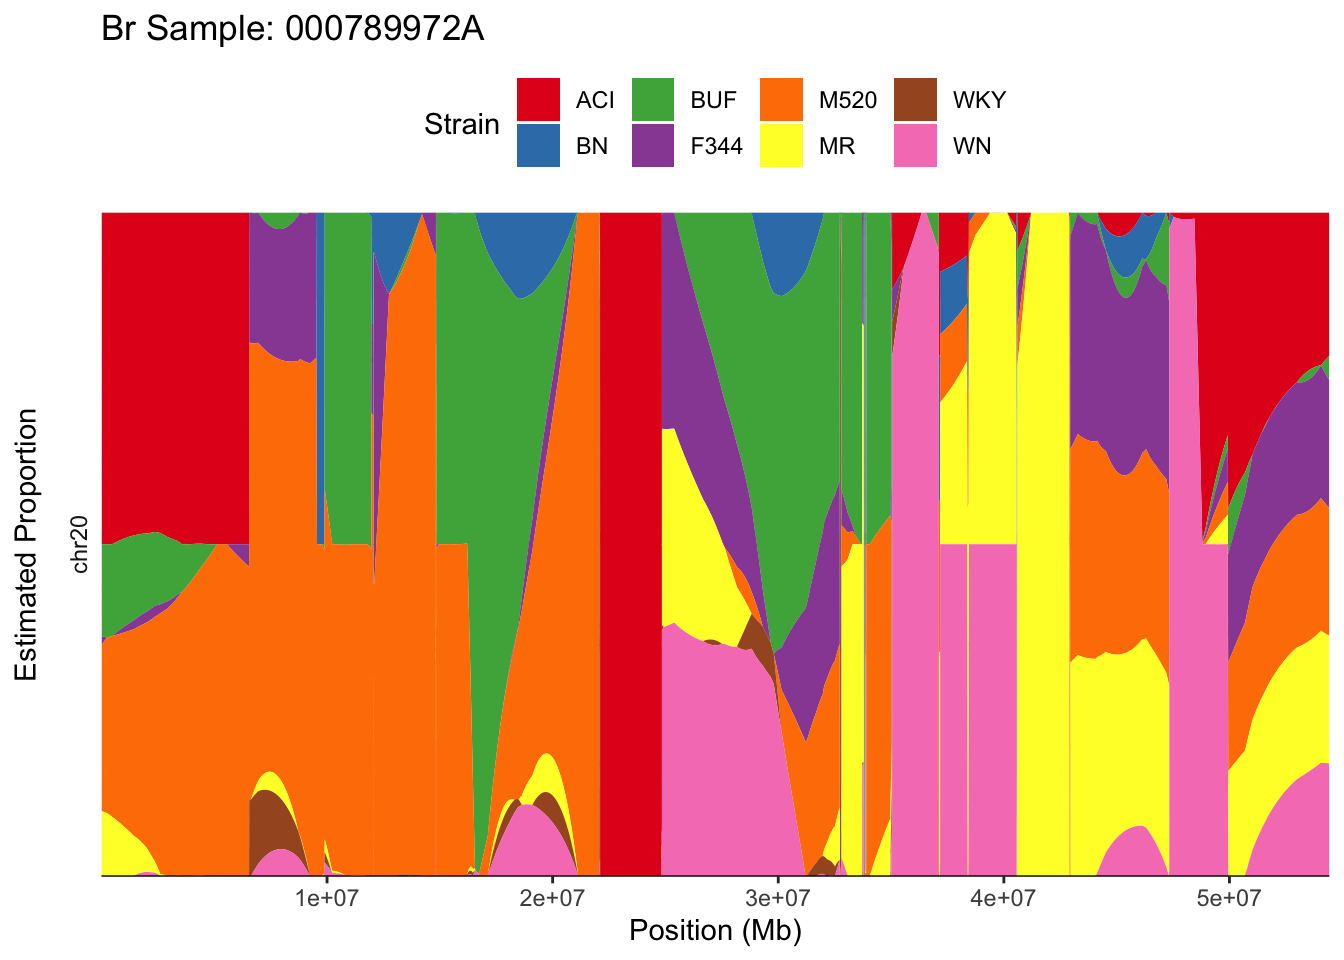
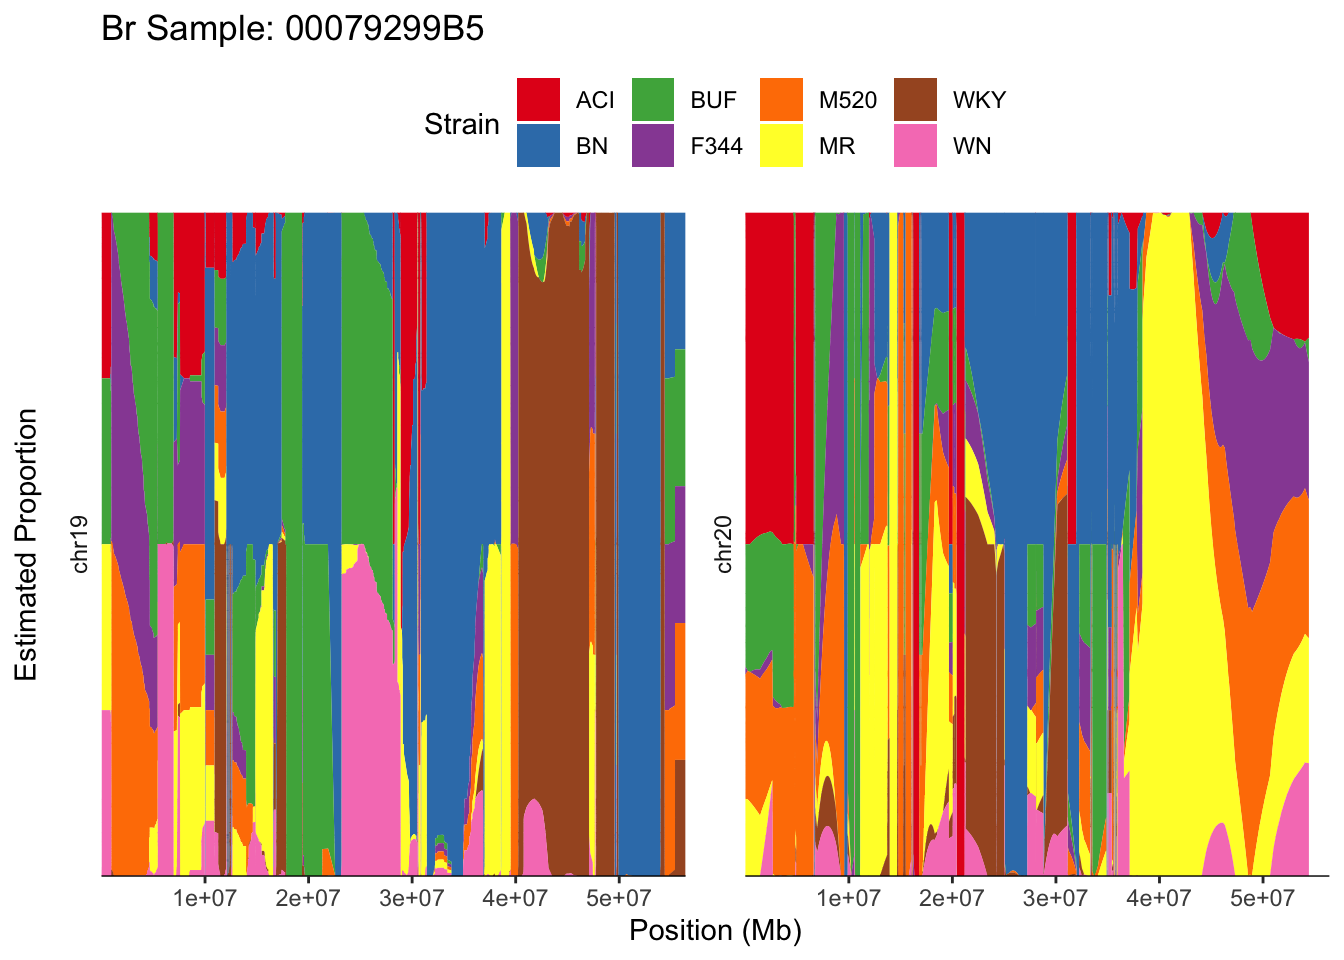
chr19 plot

diff --git a/docs/posts/2023-12-13-plotting-Br-haplotype-distributions/index.html b/docs/posts/2023-12-13-plotting-Br-haplotype-distributions/index.html
@@ -182,45 +182,49 @@ pre > code.sourceCode > span > a:first-child::before { text-decoration: underlin
 <span id="cb1-2"><a href="#cb1-2" aria-hidden="true" tabindex="-1"></a><span class="fu">library</span>(tidyr)</span>
 <span id="cb1-3"><a href="#cb1-3" aria-hidden="true" tabindex="-1"></a><span class="fu">library</span>(stringr)</span></code><button title="Copy to Clipboard" class="code-copy-button"><i class="bi"></i></button></pre></div>
 </div>
-<div class="cell" data-hash="index_cache/html/calc_genoprob to df function_0fefa23c377fe4368a58ca5a8bad9b56">
-<div class="sourceCode cell-code" id="cb2"><pre class="sourceCode r code-with-copy"><code class="sourceCode r"><span id="cb2-1"><a href="#cb2-1" aria-hidden="true" tabindex="-1"></a>prob <span class="ot">&lt;-</span> <span class="fu">readRDS</span>(<span class="st">"/Users/sabrinami/chr20-qtl2-outputs/batch0_prob.rds"</span>)</span>
-<span id="cb2-2"><a href="#cb2-2" aria-hidden="true" tabindex="-1"></a>reshape_genoprob <span class="ot">&lt;-</span> <span class="cf">function</span>(sample) {</span>
-<span id="cb2-3"><a href="#cb2-3" aria-hidden="true" tabindex="-1"></a>  sample_prob <span class="ot">&lt;-</span> <span class="fu">as.data.frame</span>(<span class="fu">t</span>(prob[[<span class="dv">1</span>]][sample, , ]))</span>
-<span id="cb2-4"><a href="#cb2-4" aria-hidden="true" tabindex="-1"></a>  snps <span class="ot">&lt;-</span> <span class="fu">str_split</span>(<span class="fu">rownames</span>(sample_prob), <span class="st">":"</span>, <span class="at">simplify =</span> <span class="cn">TRUE</span>)</span>
-<span id="cb2-5"><a href="#cb2-5" aria-hidden="true" tabindex="-1"></a>  <span class="fu">colnames</span>(snps) <span class="ot">&lt;-</span> <span class="fu">c</span>(<span class="st">"chrom"</span>, <span class="st">"pos"</span>)</span>
-<span id="cb2-6"><a href="#cb2-6" aria-hidden="true" tabindex="-1"></a>  sample_prob <span class="ot">&lt;-</span> <span class="fu">cbind</span>(sample_prob, snps)</span>
-<span id="cb2-7"><a href="#cb2-7" aria-hidden="true" tabindex="-1"></a>  plot_df <span class="ot">&lt;-</span> <span class="fu">pivot_longer</span>(sample_prob, <span class="at">cols =</span> <span class="sc">-</span><span class="fu">c</span>(chrom, pos), <span class="at">names_to =</span> <span class="st">"Strain"</span>, <span class="at">values_to =</span> <span class="st">"prob"</span>)</span>
-<span id="cb2-8"><a href="#cb2-8" aria-hidden="true" tabindex="-1"></a>  plot_df<span class="sc">$</span>pos <span class="ot">&lt;-</span> <span class="fu">as.integer</span>(plot_df<span class="sc">$</span>pos)</span>
-<span id="cb2-9"><a href="#cb2-9" aria-hidden="true" tabindex="-1"></a>  <span class="fu">return</span>(plot_df)</span>
-<span id="cb2-10"><a href="#cb2-10" aria-hidden="true" tabindex="-1"></a>}</span></code><button title="Copy to Clipboard" class="code-copy-button"><i class="bi"></i></button></pre></div>
+<div class="cell" data-hash="index_cache/html/calc_genoprob to df function_7163612ce7af857ca69e441c8c99b402">
+<div class="sourceCode cell-code" id="cb2"><pre class="sourceCode r code-with-copy"><code class="sourceCode r"><span id="cb2-1"><a href="#cb2-1" aria-hidden="true" tabindex="-1"></a>reshape_genoprob <span class="ot">&lt;-</span> <span class="cf">function</span>(sample, prob) {</span>
+<span id="cb2-2"><a href="#cb2-2" aria-hidden="true" tabindex="-1"></a>  sample_prob <span class="ot">&lt;-</span> <span class="fu">as.data.frame</span>(<span class="fu">t</span>(prob[[<span class="dv">1</span>]][sample, , ]))</span>
+<span id="cb2-3"><a href="#cb2-3" aria-hidden="true" tabindex="-1"></a>  snps <span class="ot">&lt;-</span> <span class="fu">str_split</span>(<span class="fu">rownames</span>(sample_prob), <span class="st">":"</span>, <span class="at">simplify =</span> <span class="cn">TRUE</span>)</span>
+<span id="cb2-4"><a href="#cb2-4" aria-hidden="true" tabindex="-1"></a>  <span class="fu">colnames</span>(snps) <span class="ot">&lt;-</span> <span class="fu">c</span>(<span class="st">"chrom"</span>, <span class="st">"pos"</span>)</span>
+<span id="cb2-5"><a href="#cb2-5" aria-hidden="true" tabindex="-1"></a>  sample_prob <span class="ot">&lt;-</span> <span class="fu">cbind</span>(sample_prob, snps)</span>
+<span id="cb2-6"><a href="#cb2-6" aria-hidden="true" tabindex="-1"></a>  plot_df <span class="ot">&lt;-</span> <span class="fu">pivot_longer</span>(sample_prob, <span class="at">cols =</span> <span class="sc">-</span><span class="fu">c</span>(chrom, pos), <span class="at">names_to =</span> <span class="st">"Strain"</span>, <span class="at">values_to =</span> <span class="st">"prob"</span>)</span>
+<span id="cb2-7"><a href="#cb2-7" aria-hidden="true" tabindex="-1"></a>  plot_df<span class="sc">$</span>pos <span class="ot">&lt;-</span> <span class="fu">as.integer</span>(plot_df<span class="sc">$</span>pos)</span>
+<span id="cb2-8"><a href="#cb2-8" aria-hidden="true" tabindex="-1"></a>  <span class="fu">return</span>(plot_df)</span>
+<span id="cb2-9"><a href="#cb2-9" aria-hidden="true" tabindex="-1"></a>}</span></code><button title="Copy to Clipboard" class="code-copy-button"><i class="bi"></i></button></pre></div>
 </div>
 <section id="samples-plots" class="level3">
 <h3 class="anchored" data-anchor-id="samples-plots">Samples Plots</h3>
-<div class="cell" data-hash="index_cache/html/unnamed-chunk-1_643c993f0e3e2668c4e753ee04c97584">
-<div class="sourceCode cell-code" id="cb3"><pre class="sourceCode r code-with-copy"><code class="sourceCode r"><span id="cb3-1"><a href="#cb3-1" aria-hidden="true" tabindex="-1"></a><span class="cf">for</span> (sample <span class="cf">in</span> <span class="fu">sample</span>(<span class="fu">rownames</span>(prob[[<span class="dv">1</span>]]), <span class="at">size =</span> <span class="dv">2</span>, <span class="at">replace =</span> <span class="cn">FALSE</span>)) {</span>
-<span id="cb3-2"><a href="#cb3-2" aria-hidden="true" tabindex="-1"></a>  df <span class="ot">&lt;-</span> <span class="fu">reshape_genoprob</span>(sample)</span>
-<span id="cb3-3"><a href="#cb3-3" aria-hidden="true" tabindex="-1"></a>  plot <span class="ot">&lt;-</span> df <span class="sc">%&gt;%</span> <span class="fu">ggplot</span>(<span class="fu">aes</span>(<span class="at">x =</span> pos, <span class="at">y =</span> prob, <span class="at">fill =</span> Strain)) <span class="sc">+</span></span>
-<span id="cb3-4"><a href="#cb3-4" aria-hidden="true" tabindex="-1"></a>    <span class="fu">facet_wrap</span>(<span class="sc">~</span> chrom, <span class="at">ncol =</span> <span class="dv">2</span>, <span class="at">dir =</span> <span class="st">"v"</span>, <span class="at">strip.position =</span> <span class="st">"left"</span>) <span class="sc">+</span></span>
-<span id="cb3-5"><a href="#cb3-5" aria-hidden="true" tabindex="-1"></a>    <span class="fu">geom_area</span>() <span class="sc">+</span></span>
-<span id="cb3-6"><a href="#cb3-6" aria-hidden="true" tabindex="-1"></a>    <span class="fu">scale_fill_brewer</span>(<span class="at">type =</span> <span class="st">"qual"</span>, <span class="at">palette =</span> <span class="dv">6</span>) <span class="sc">+</span></span>
-<span id="cb3-7"><a href="#cb3-7" aria-hidden="true" tabindex="-1"></a>    <span class="fu">scale_x_continuous</span>(<span class="at">expand =</span> <span class="fu">c</span>(<span class="dv">0</span>, <span class="dv">0</span>)) <span class="sc">+</span></span>
-<span id="cb3-8"><a href="#cb3-8" aria-hidden="true" tabindex="-1"></a>    <span class="fu">scale_y_continuous</span>(<span class="at">expand =</span> <span class="fu">c</span>(<span class="dv">0</span>, <span class="dv">0</span>)) <span class="sc">+</span></span>
-<span id="cb3-9"><a href="#cb3-9" aria-hidden="true" tabindex="-1"></a>    <span class="fu">theme_bw</span>() <span class="sc">+</span></span>
-<span id="cb3-10"><a href="#cb3-10" aria-hidden="true" tabindex="-1"></a>    <span class="fu">xlab</span>(<span class="st">"Position (Mb)"</span>) <span class="sc">+</span></span>
-<span id="cb3-11"><a href="#cb3-11" aria-hidden="true" tabindex="-1"></a>    <span class="fu">ylab</span>(<span class="st">"Estimated Proportion"</span>) <span class="sc">+</span></span>
-<span id="cb3-12"><a href="#cb3-12" aria-hidden="true" tabindex="-1"></a>    <span class="fu">ggtitle</span>(<span class="fu">paste0</span>(<span class="st">"Br Sample: "</span>, sample)) <span class="sc">+</span>  </span>
-<span id="cb3-13"><a href="#cb3-13" aria-hidden="true" tabindex="-1"></a>    <span class="fu">theme</span>(</span>
-<span id="cb3-14"><a href="#cb3-14" aria-hidden="true" tabindex="-1"></a>        <span class="at">axis.text.y =</span> <span class="fu">element_blank</span>(),</span>
-<span id="cb3-15"><a href="#cb3-15" aria-hidden="true" tabindex="-1"></a>        <span class="at">panel.grid =</span> <span class="fu">element_blank</span>(),</span>
-<span id="cb3-16"><a href="#cb3-16" aria-hidden="true" tabindex="-1"></a>        <span class="at">axis.ticks.y =</span> <span class="fu">element_blank</span>(),</span>
-<span id="cb3-17"><a href="#cb3-17" aria-hidden="true" tabindex="-1"></a>        <span class="at">axis.line.x =</span> <span class="fu">element_line</span>(<span class="at">size =</span> <span class="fl">0.25</span>),</span>
-<span id="cb3-18"><a href="#cb3-18" aria-hidden="true" tabindex="-1"></a>        <span class="at">panel.border =</span> <span class="fu">element_blank</span>(),</span>
-<span id="cb3-19"><a href="#cb3-19" aria-hidden="true" tabindex="-1"></a>        <span class="at">strip.background =</span> <span class="fu">element_blank</span>(),</span>
-<span id="cb3-20"><a href="#cb3-20" aria-hidden="true" tabindex="-1"></a>        <span class="at">legend.position =</span> <span class="st">"top"</span>,</span>
-<span id="cb3-21"><a href="#cb3-21" aria-hidden="true" tabindex="-1"></a>    )</span>
-<span id="cb3-22"><a href="#cb3-22" aria-hidden="true" tabindex="-1"></a>    <span class="fu">print</span>(plot)</span>
-<span id="cb3-23"><a href="#cb3-23" aria-hidden="true" tabindex="-1"></a>    <span class="fu">ggsave</span>(<span class="fu">paste0</span>(sample,<span class="st">".png"</span>), <span class="at">plot =</span> plot, <span class="at">width =</span> <span class="dv">8</span>, <span class="at">height =</span> <span class="dv">6</span>, <span class="at">units =</span> <span class="st">"in"</span>, <span class="at">dpi =</span> <span class="dv">300</span>)</span>
-<span id="cb3-24"><a href="#cb3-24" aria-hidden="true" tabindex="-1"></a>}</span></code><button title="Copy to Clipboard" class="code-copy-button"><i class="bi"></i></button></pre></div>
+<div class="cell" data-hash="index_cache/html/unnamed-chunk-1_d6ca36b0eb38fc076848616681ebb2cf">
+<div class="sourceCode cell-code" id="cb3"><pre class="sourceCode r code-with-copy"><code class="sourceCode r"><span id="cb3-1"><a href="#cb3-1" aria-hidden="true" tabindex="-1"></a><span class="fu">set.seed</span>(<span class="dv">6</span>)</span>
+<span id="cb3-2"><a href="#cb3-2" aria-hidden="true" tabindex="-1"></a>chr20_prob <span class="ot">&lt;-</span> <span class="fu">readRDS</span>(<span class="st">"/Users/sabrinami/chr20-qtl2-outputs/batch0_prob.rds"</span>)</span>
+<span id="cb3-3"><a href="#cb3-3" aria-hidden="true" tabindex="-1"></a>chr19_prob <span class="ot">&lt;-</span> <span class="fu">readRDS</span>(<span class="st">"/Users/sabrinami/chr19-qtl2-outputs/batch0_prob.rds"</span>)</span>
+<span id="cb3-4"><a href="#cb3-4" aria-hidden="true" tabindex="-1"></a><span class="cf">for</span> (sample <span class="cf">in</span> <span class="fu">sample</span>(<span class="fu">rownames</span>(chr19_prob[[<span class="dv">1</span>]]), <span class="at">size =</span> <span class="dv">2</span>, <span class="at">replace =</span> <span class="cn">FALSE</span>)) {</span>
+<span id="cb3-5"><a href="#cb3-5" aria-hidden="true" tabindex="-1"></a>  chr20_df <span class="ot">&lt;-</span> <span class="fu">reshape_genoprob</span>(sample, chr20_prob)</span>
+<span id="cb3-6"><a href="#cb3-6" aria-hidden="true" tabindex="-1"></a>  chr19_df <span class="ot">&lt;-</span> <span class="fu">reshape_genoprob</span>(sample, chr19_prob)</span>
+<span id="cb3-7"><a href="#cb3-7" aria-hidden="true" tabindex="-1"></a>  df <span class="ot">&lt;-</span> <span class="fu">rbind</span>(chr19_df, chr20_df)</span>
+<span id="cb3-8"><a href="#cb3-8" aria-hidden="true" tabindex="-1"></a>  plot <span class="ot">&lt;-</span> df <span class="sc">%&gt;%</span> <span class="fu">ggplot</span>(<span class="fu">aes</span>(<span class="at">x =</span> pos, <span class="at">y =</span> prob, <span class="at">fill =</span> Strain)) <span class="sc">+</span></span>
+<span id="cb3-9"><a href="#cb3-9" aria-hidden="true" tabindex="-1"></a>    <span class="fu">facet_wrap</span>(<span class="sc">~</span> chrom, <span class="at">ncol =</span> <span class="dv">2</span>, <span class="at">dir =</span> <span class="st">"v"</span>, <span class="at">strip.position =</span> <span class="st">"left"</span>) <span class="sc">+</span></span>
+<span id="cb3-10"><a href="#cb3-10" aria-hidden="true" tabindex="-1"></a>    <span class="fu">geom_area</span>() <span class="sc">+</span></span>
+<span id="cb3-11"><a href="#cb3-11" aria-hidden="true" tabindex="-1"></a>    <span class="fu">scale_fill_brewer</span>(<span class="at">type =</span> <span class="st">"qual"</span>, <span class="at">palette =</span> <span class="dv">6</span>) <span class="sc">+</span></span>
+<span id="cb3-12"><a href="#cb3-12" aria-hidden="true" tabindex="-1"></a>    <span class="fu">scale_x_continuous</span>(<span class="at">expand =</span> <span class="fu">c</span>(<span class="dv">0</span>, <span class="dv">0</span>)) <span class="sc">+</span></span>
+<span id="cb3-13"><a href="#cb3-13" aria-hidden="true" tabindex="-1"></a>    <span class="fu">scale_y_continuous</span>(<span class="at">expand =</span> <span class="fu">c</span>(<span class="dv">0</span>, <span class="dv">0</span>)) <span class="sc">+</span></span>
+<span id="cb3-14"><a href="#cb3-14" aria-hidden="true" tabindex="-1"></a>    <span class="fu">theme_bw</span>() <span class="sc">+</span></span>
+<span id="cb3-15"><a href="#cb3-15" aria-hidden="true" tabindex="-1"></a>    <span class="fu">xlab</span>(<span class="st">"Position (Mb)"</span>) <span class="sc">+</span></span>
+<span id="cb3-16"><a href="#cb3-16" aria-hidden="true" tabindex="-1"></a>    <span class="fu">ylab</span>(<span class="st">"Estimated Proportion"</span>) <span class="sc">+</span></span>
+<span id="cb3-17"><a href="#cb3-17" aria-hidden="true" tabindex="-1"></a>    <span class="fu">ggtitle</span>(<span class="fu">paste0</span>(<span class="st">"Br Sample: "</span>, sample)) <span class="sc">+</span>  </span>
+<span id="cb3-18"><a href="#cb3-18" aria-hidden="true" tabindex="-1"></a>    <span class="fu">theme</span>(</span>
+<span id="cb3-19"><a href="#cb3-19" aria-hidden="true" tabindex="-1"></a>        <span class="at">axis.text.y =</span> <span class="fu">element_blank</span>(),</span>
+<span id="cb3-20"><a href="#cb3-20" aria-hidden="true" tabindex="-1"></a>        <span class="at">panel.grid =</span> <span class="fu">element_blank</span>(),</span>
+<span id="cb3-21"><a href="#cb3-21" aria-hidden="true" tabindex="-1"></a>        <span class="at">axis.ticks.y =</span> <span class="fu">element_blank</span>(),</span>
+<span id="cb3-22"><a href="#cb3-22" aria-hidden="true" tabindex="-1"></a>        <span class="at">axis.line.x =</span> <span class="fu">element_line</span>(<span class="at">size =</span> <span class="fl">0.25</span>),</span>
+<span id="cb3-23"><a href="#cb3-23" aria-hidden="true" tabindex="-1"></a>        <span class="at">panel.border =</span> <span class="fu">element_blank</span>(),</span>
+<span id="cb3-24"><a href="#cb3-24" aria-hidden="true" tabindex="-1"></a>        <span class="at">strip.background =</span> <span class="fu">element_blank</span>(),</span>
+<span id="cb3-25"><a href="#cb3-25" aria-hidden="true" tabindex="-1"></a>        <span class="at">legend.position =</span> <span class="st">"top"</span>,</span>
+<span id="cb3-26"><a href="#cb3-26" aria-hidden="true" tabindex="-1"></a>    )</span>
+<span id="cb3-27"><a href="#cb3-27" aria-hidden="true" tabindex="-1"></a>    <span class="fu">print</span>(plot)</span>
+<span id="cb3-28"><a href="#cb3-28" aria-hidden="true" tabindex="-1"></a>    <span class="fu">ggsave</span>(<span class="fu">paste0</span>(sample,<span class="st">".png"</span>), <span class="at">plot =</span> plot, <span class="at">width =</span> <span class="dv">8</span>, <span class="at">height =</span> <span class="dv">6</span>, <span class="at">units =</span> <span class="st">"in"</span>, <span class="at">dpi =</span> <span class="dv">300</span>)</span>
+<span id="cb3-29"><a href="#cb3-29" aria-hidden="true" tabindex="-1"></a>}</span></code><button title="Copy to Clipboard" class="code-copy-button"><i class="bi"></i></button></pre></div>
 <div class="cell-output cell-output-stderr">
 <pre><code>Warning: The `size` argument of `element_line()` is deprecated as of ggplot2 3.4.0.
 ℹ Please use the `linewidth` argument instead.</code></pre>
